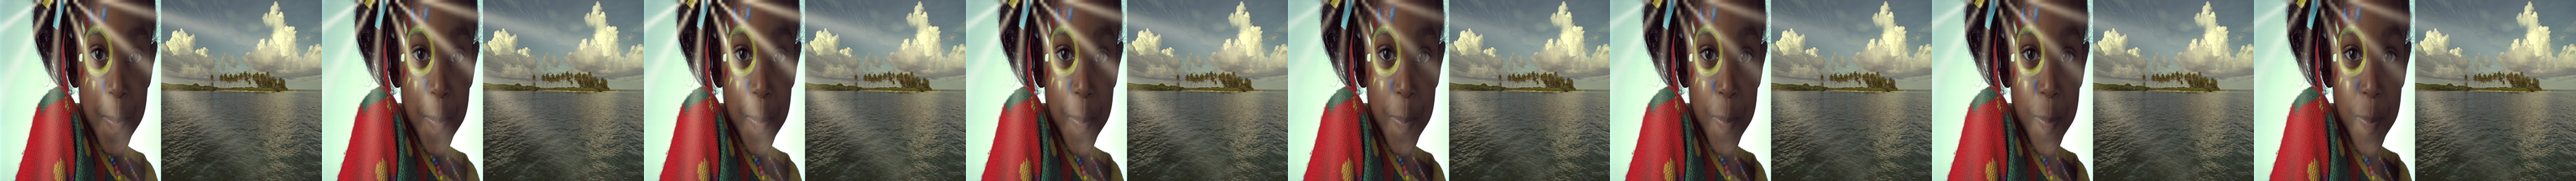
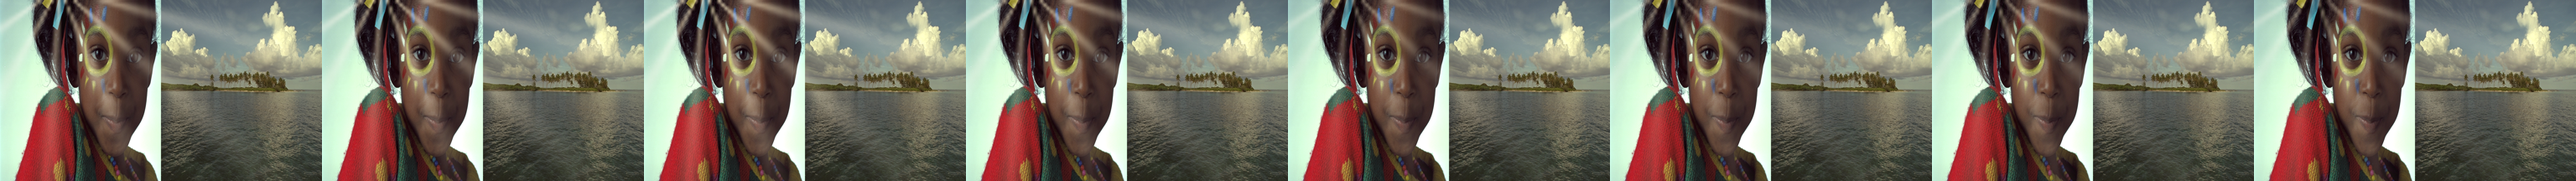
fix(editor): light batch-1 tuning — softer leak/rays, stronger prism
Review feedback: godRays intensity 55→40 (was overpowering dark
footage); lightLeak intensity 70→55 + spread 0.75→0.6 (enhances rather
than covers); prismRefraction dispersion 0.8→1.2 + glint 0.5→0.7 (RGB
split now clearly readable). lensFlare approved as-is. Thumbs + scene
sheet regenerated through the real chain.

Generated with [Devin](https://devin.ai)

diff --git a/shared/fx/build.ts b/shared/fx/build.ts
@@ -724,7 +724,7 @@ export const MANIFEST: FxManifest = {
       description:
         "Analog film burn — warm light spilling in from the frame edge with organic drift and exposure flicker.",
       params: [
-        num("intensity", "Intensity", 70, 0, 100, 1, "%"),
+        num("intensity", "Intensity", 55, 0, 100, 1, "%"),
         { key: "color", label: "Color", type: "color", def: 0xff5a1e, min: 0, max: 0xffffff, step: 1 },
         {
           key: "pattern",
@@ -733,7 +733,7 @@ export const MANIFEST: FxManifest = {
           def: 0,
           options: ["Edge Sweep", "Corner Bloom", "Dual Sides"],
         },
-        num("spread", "Spread", 0.75, 0.25, 1, 0.02),
+        num("spread", "Spread", 0.6, 0.25, 1, 0.02),
         num("speed", "Drift speed", 0.18, 0.04, 0.8, 0.01, "Hz"),
         num("flicker", "Flicker", 0.35, 0, 0.6, 0.02),
       ],
@@ -753,7 +753,7 @@ export const MANIFEST: FxManifest = {
       description:
         "Volumetric light shafts from a source point — adjustable fan, slow sway, gentle breathing.",
       params: [
-        num("intensity", "Intensity", 55, 0, 100, 1, "%"),
+        num("intensity", "Intensity", 40, 0, 100, 1, "%"),
         num("x", "Source X", 18, -20, 120, 1, "%"),
         num("y", "Source Y", -8, -20, 120, 1, "%"),
         { key: "angle", label: "Fan angle", type: "angle", def: 35, min: 0, max: 360, step: 5, unit: "°" },
@@ -778,7 +778,7 @@ export const MANIFEST: FxManifest = {
         "Spectral dispersion — RGB planes split radially around a point while a rainbow glint sweeps the frame.",
       params: [
         num("intensity", "Intensity", 65, 0, 100, 1, "%"),
-        num("amount", "Dispersion", 0.8, 0.1, 2, 0.05),
+        num("amount", "Dispersion", 1.2, 0.1, 2, 0.05),
         num("x", "Centre X", 50, 0, 100, 1, "%"),
         num("y", "Centre Y", 45, 0, 100, 1, "%"),
         {
@@ -788,7 +788,7 @@ export const MANIFEST: FxManifest = {
           def: 0,
           options: ["Radial", "Edge Split", "Halo"],
         },
-        num("glint", "Rainbow glint", 0.5, 0, 1, 0.02),
+        num("glint", "Rainbow glint", 0.7, 0, 1, 0.02),
         num("speed", "Glint speed", 0.08, 0, 0.4, 0.01, "Hz"),
       ],
       preview: "gl",

diff --git a/src-tauri/src/render/fxlib_parity.rs b/src-tauri/src/render/fxlib_parity.rs
@@ -971,7 +971,7 @@ fn light_verify() {
             let d = mean(&a, &base);
             let mx = a.iter().zip(base.iter()).map(|(x, y)| (*x as i32 - *y as i32).abs()).max().unwrap_or(0);
             eprintln!("{} n={n}: mean|Δ| = {d:.2}  max|Δ| = {mx}", entry.id);
-            assert!(mx > 60, "{}: frame {n} not visibly affected (maxΔ {mx})", entry.id);
+            assert!(mx > 45, "{}: frame {n} not visibly affected (maxΔ {mx})", entry.id);
             last = d;
         }
         let _ = last;
